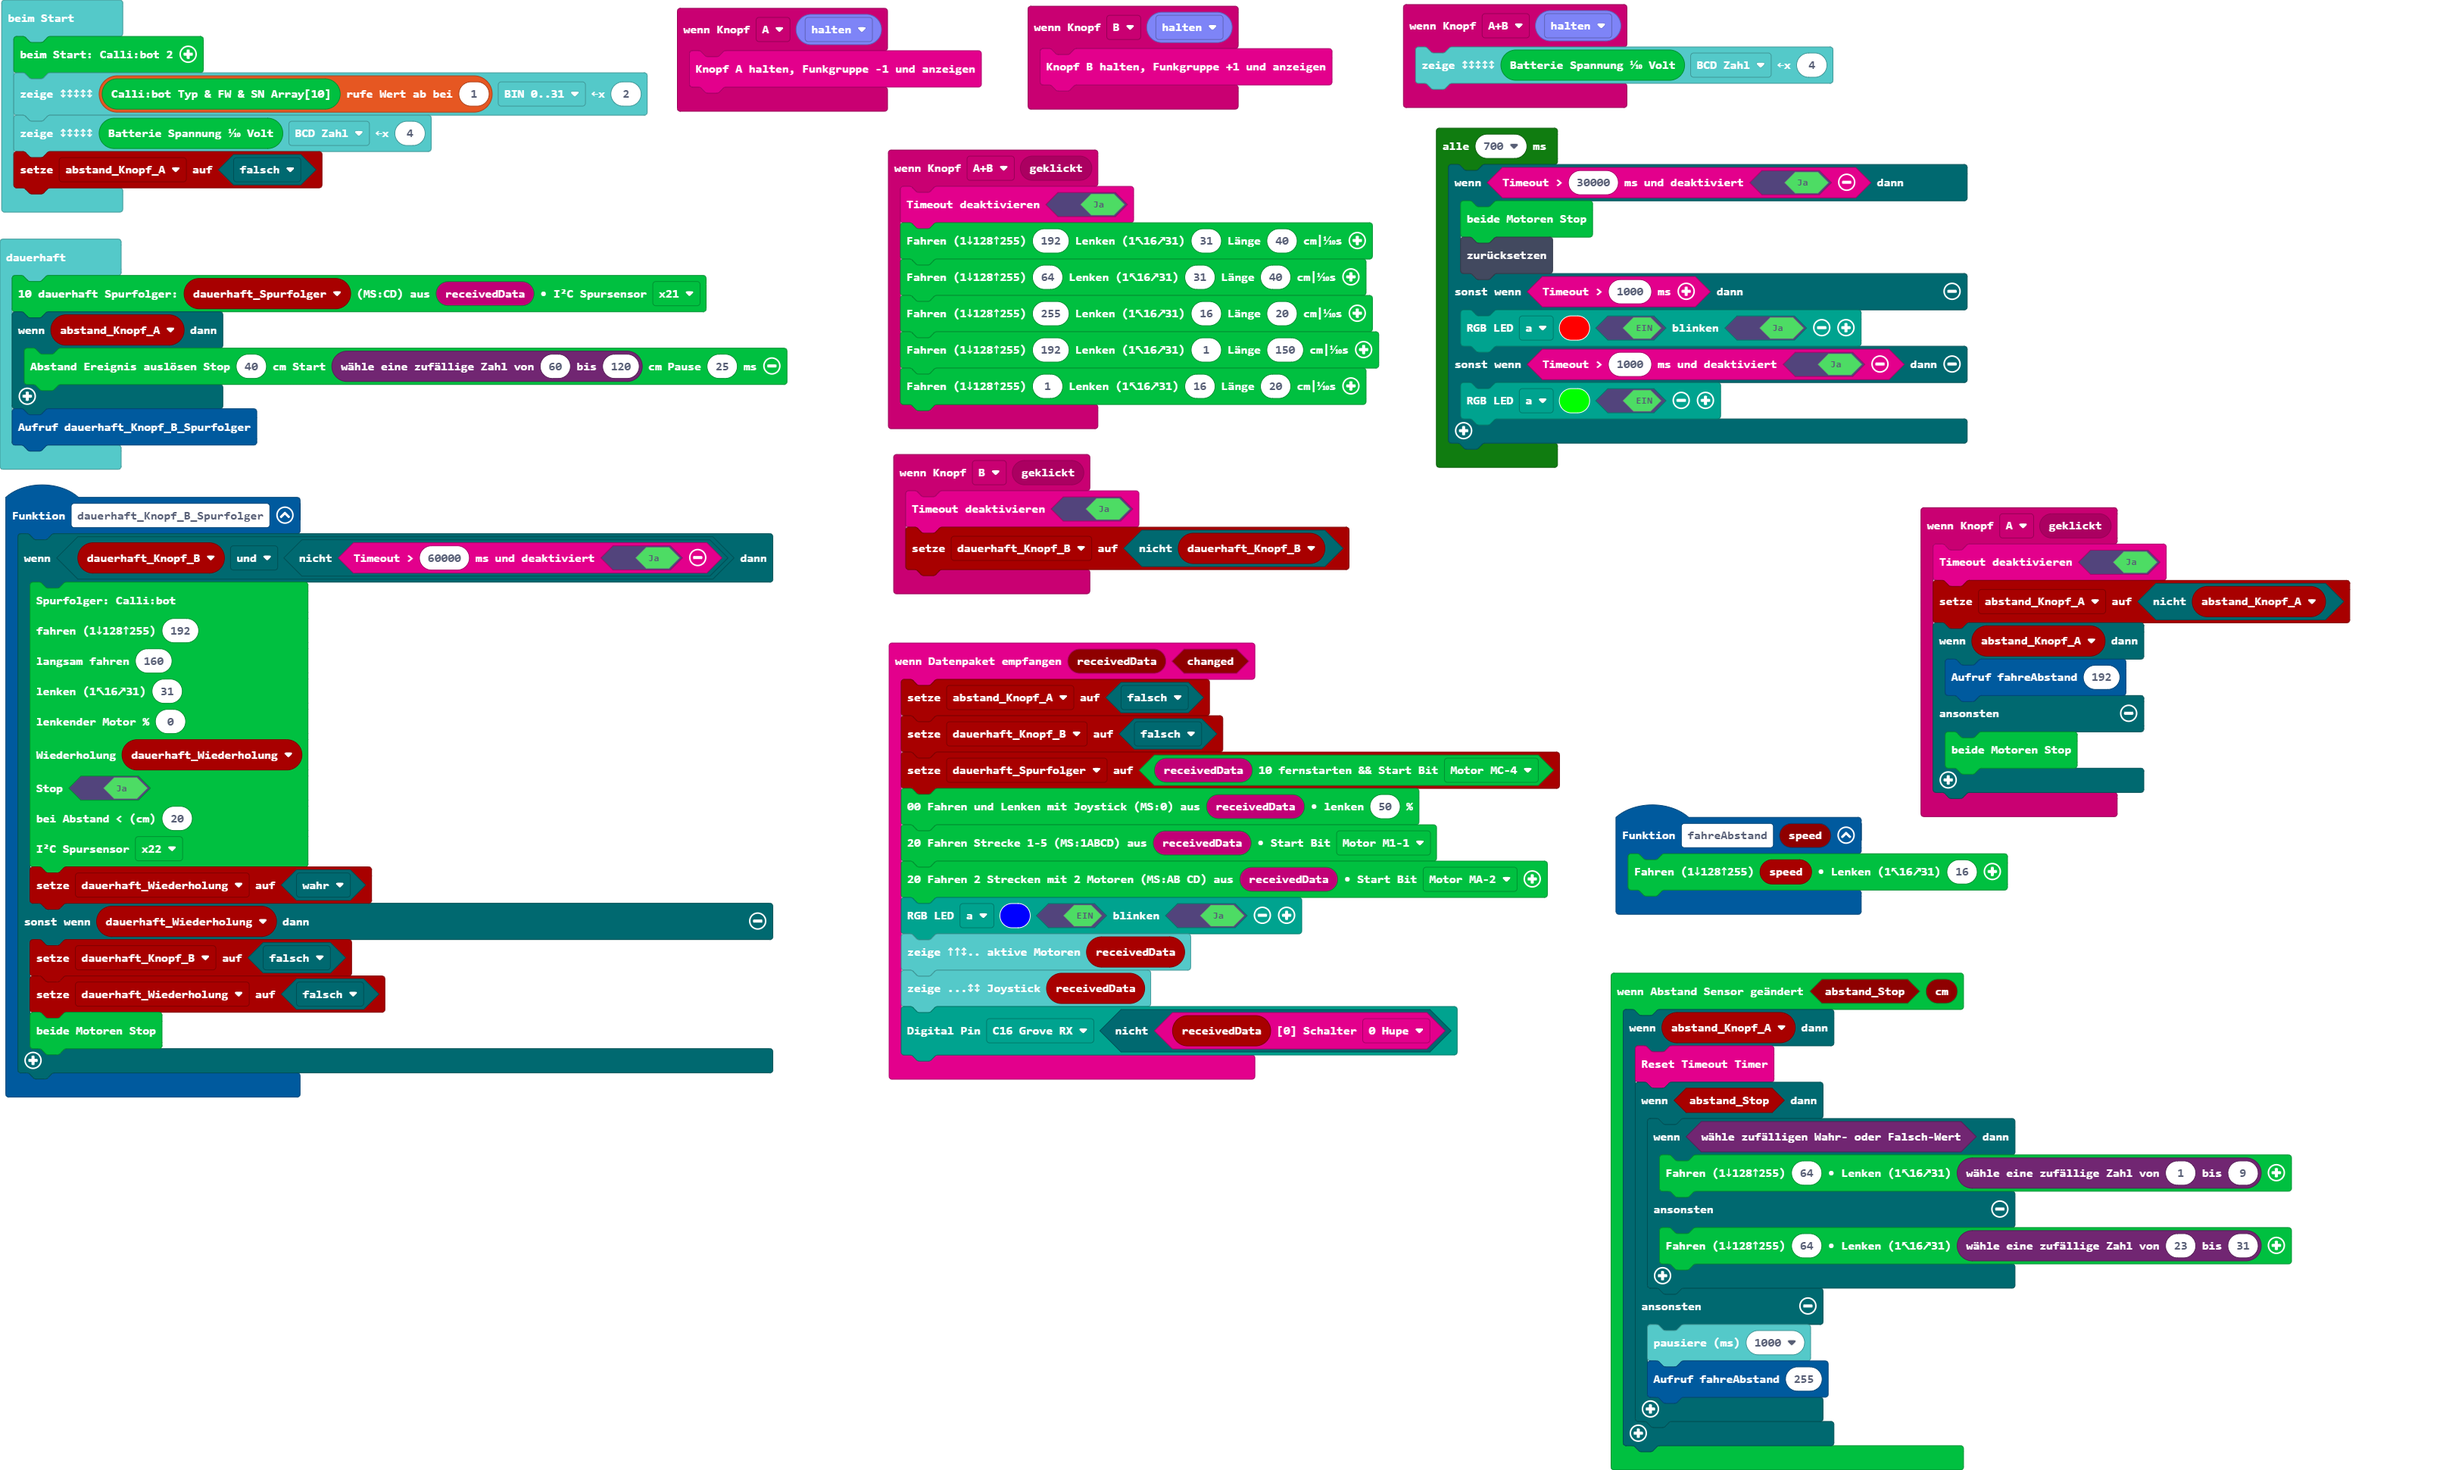
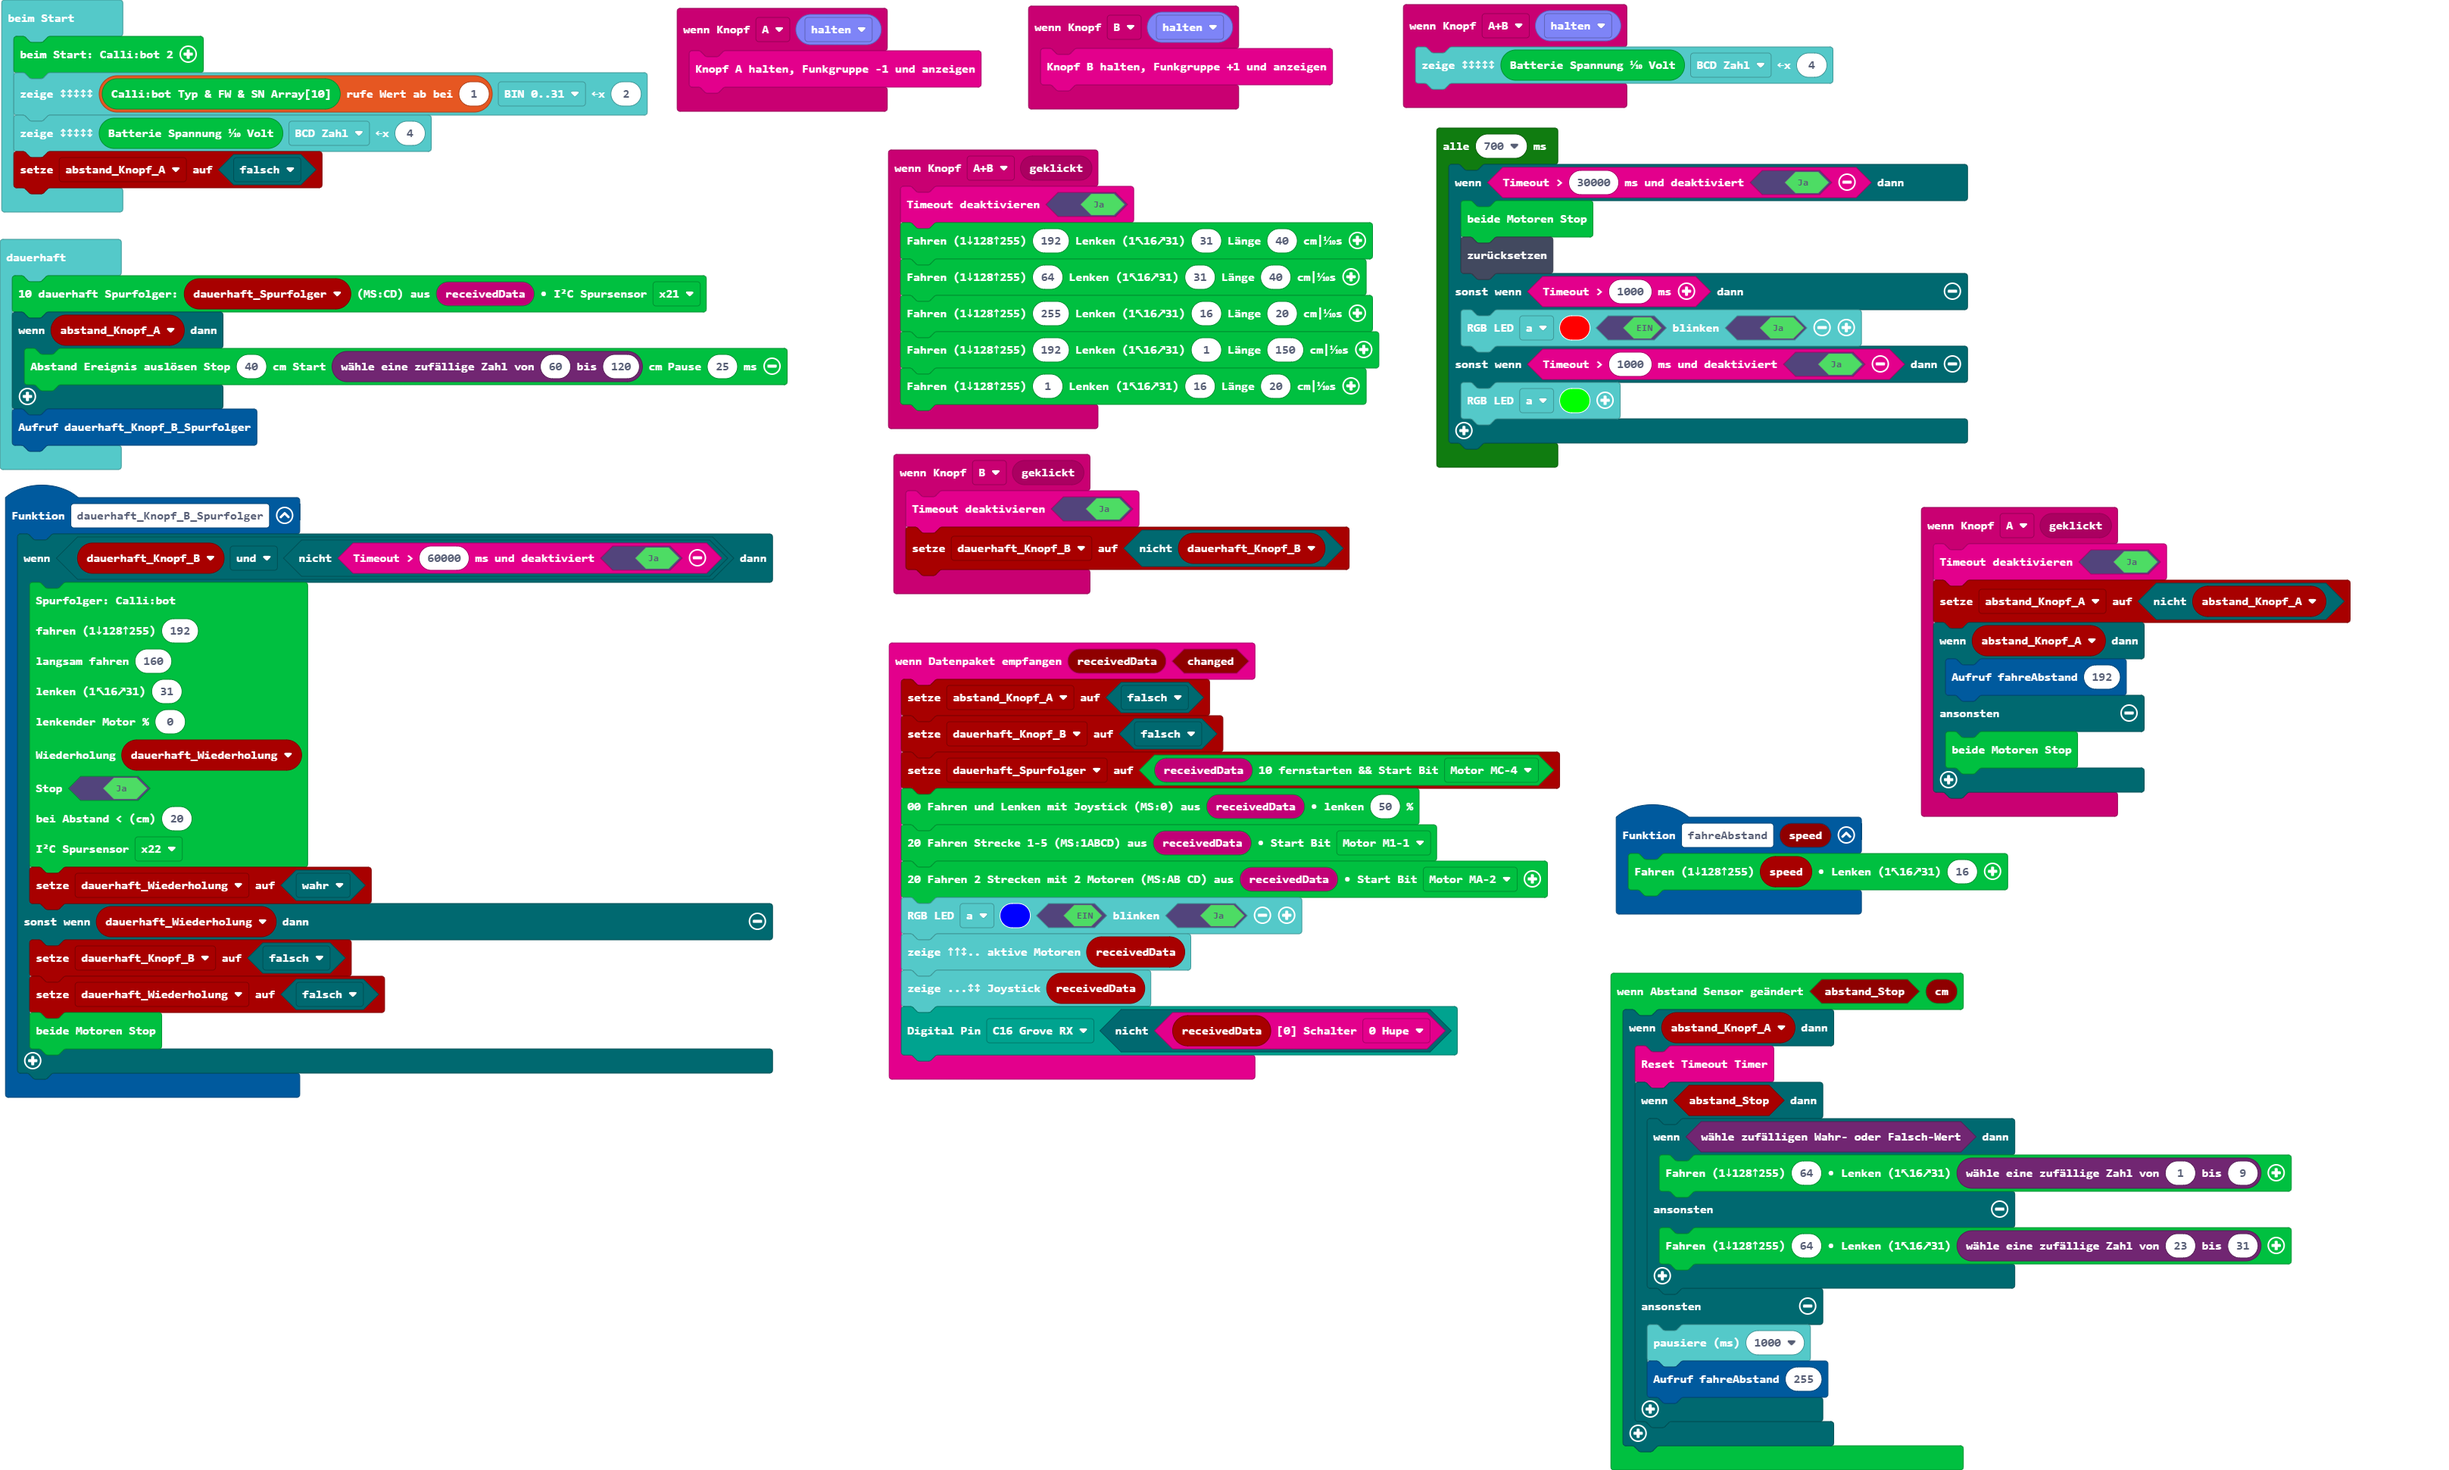
Aktualisiere pxt.json, main.blocks, main.ts

diff --git a/main.ts b/main.ts
@@ -35,7 +35,7 @@ btf.onReceivedDataChanged(function (receivedData, changed) {
     cb2.fahreJoystick(btf.btf_receivedBuffer19(), 50)
     cb2.fahrplanBuffer5Strecken(btf.btf_receivedBuffer19(), btf.e3aktiviert.m1)
     cb2.fahrplanBuffer2x2Motoren(btf.btf_receivedBuffer19(), btf.e3aktiviert.ma)
-    receiver.setLedColors(receiver.eRGBled.a, 0x0000ff, true, true)
+    btf.setLedColors(btf.eRgbLed.a, 0x0000ff, true, true)
     btf.zeige5x5Buffer(receivedData)
     btf.zeige5x5Joystick(receivedData)
     receiver.digitalWritePin(receiver.eDigitalPins.C16, !(btf.getSchalter(receivedData, btf.e0Schalter.b0)))
@@ -97,8 +97,8 @@ loops.everyInterval(700, function () {
         cb2.writeMotorenStop()
         control.reset()
     } else if (btf.timeout(1000)) {
-        receiver.setLedColors(receiver.eRGBled.a, 0xff0000, true, true)
+        btf.setLedColors(btf.eRgbLed.a, 0xff0000, true, true)
     } else if (btf.timeout(1000, true)) {
-        receiver.setLedColors(receiver.eRGBled.a, 0x00ff00, true)
+        btf.setLedColors(btf.eRgbLed.a, 0x00ff00)
     }
 })
